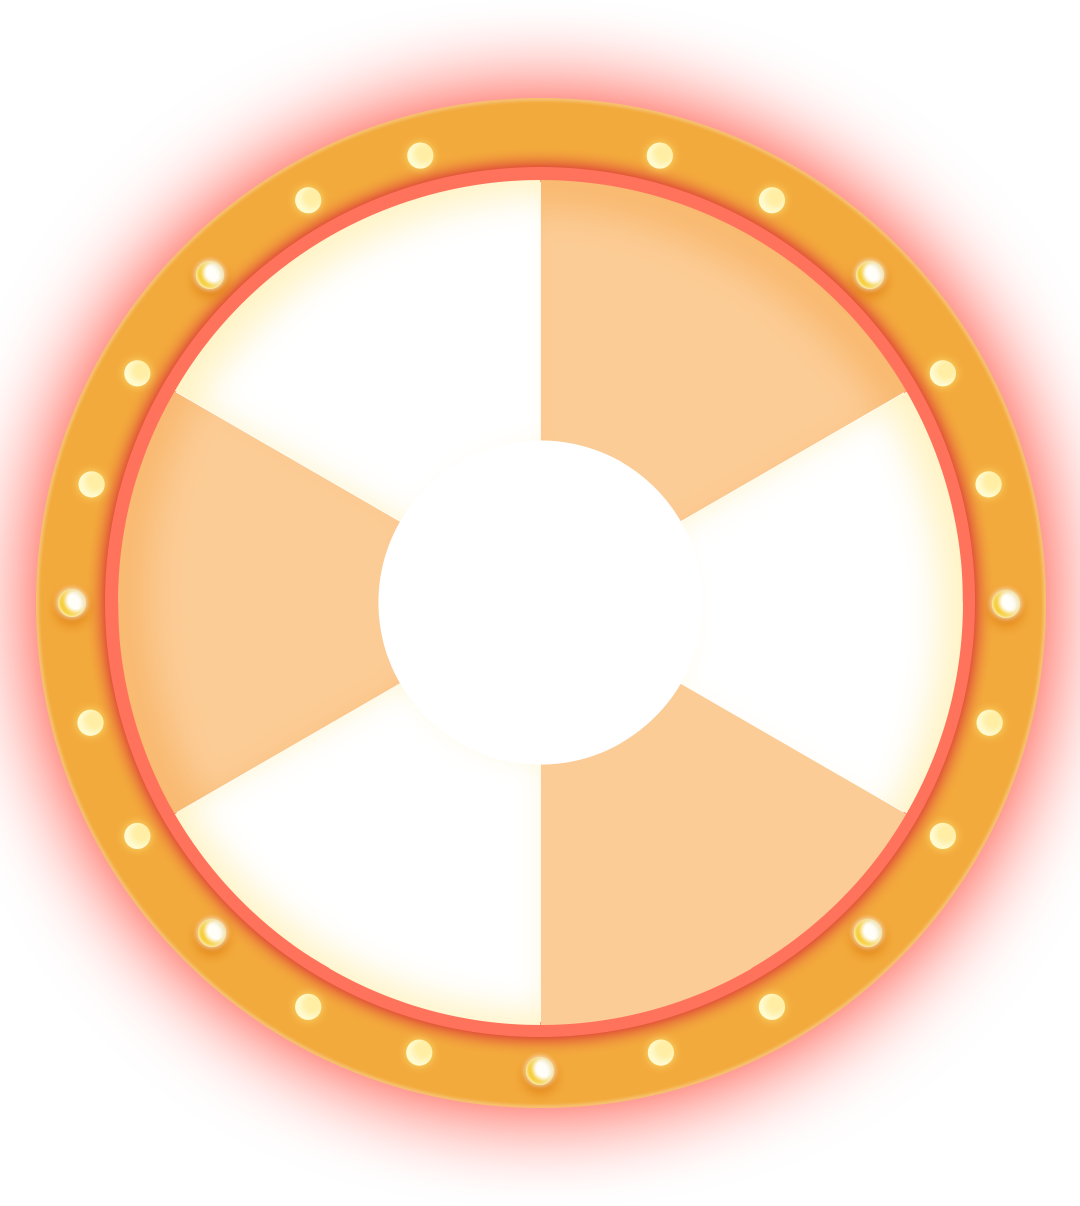
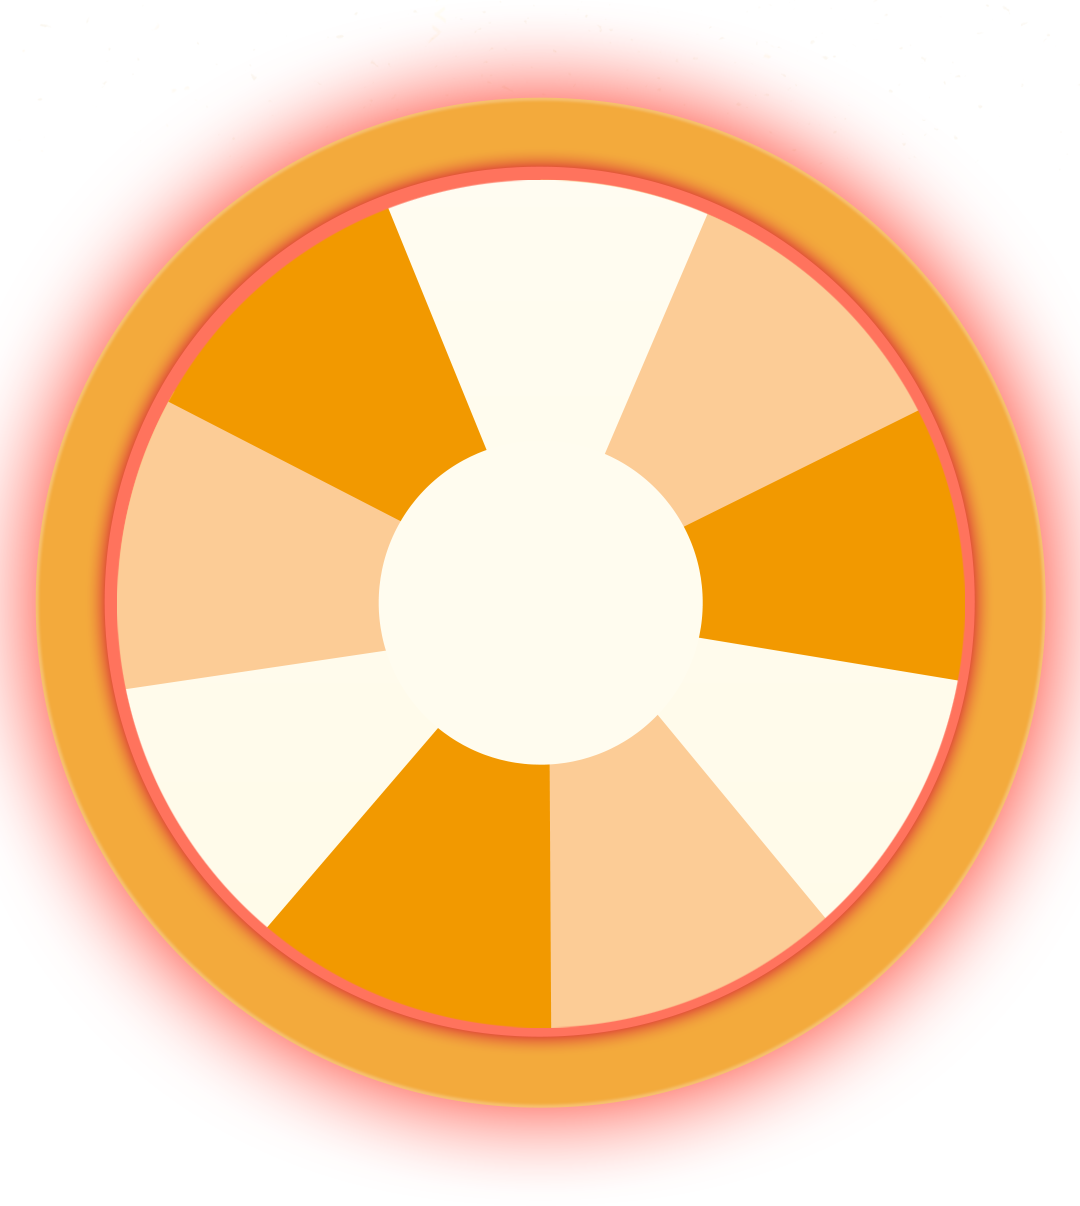
1

diff --git a/2020/project/lottery/index - 副本.html b/2020/project/lottery/index - 副本.html
@@ -26,7 +26,7 @@
     <div id="app">
         <div class="lottery-wrap">
             <div class="lottery-box">
-                <div class="item" v-for="(item, index) in prizeList" :style="{'transform': 'rotate('+ (index * 40) +'deg)'}">
+                <div class="item" v-for="(item, index) in prizeList" :style="{'transform': 'rotate('+ (index * 60 - 30) +'deg)'}">
                     <img :src="item.prize_small_url" alt="">
                     <!-- <img :src="'./images/1/test/'+ (index + 1) +'.png'" alt=""> -->
                 </div> 
@@ -109,6 +109,12 @@
     <script src="./script/zepto.min.js"></script>
     <script src="./script/vue.js"></script>
     <script src="./script/swiper.min.js"></script>
-    <script src="./script/app.js"></script>
+    <script src="./script/app.js?v=1"></script>
+    <script>
+        $.ajax({
+            url: 'https://api.it120.cc/4c2c2191d43554b0f3d611f2c19a0736/shop/goods/list',
+            type: 'post'
+        })
+    </script>
 </body>
 </html>

diff --git a/2020/project/lottery/script/app.js b/2020/project/lottery/script/app.js
@@ -1,5 +1,12 @@
 var fs = parseFloat(document.documentElement.style.fontSize)
 var host = 'https://mooning.mooning.vip/api/activity';
+
+$.ajax({
+    url: 'http://auto-order-test.gzzyad.com/api/v1/order/getbuyerorderlist',
+    success: function () {
+        
+    },
+})
 var animIndex = 0;
 var vm = new Vue({
     el: '#app',
@@ -97,7 +104,7 @@ var vm = new Vue({
                                 end = i;
                             }
                         }
-                        var rotate = 3960 - end * 60 + 30;
+                        var rotate = 3960 - end * 40;
                         var userInfo = res.data.user_info
                         that.prizeInfo = res.data;
                         if(userInfo.user_name) {

diff --git a/2020/project/lottery/styles/style.css b/2020/project/lottery/styles/style.css
@@ -9,6 +9,7 @@ body {
     background: url(../images/1/bg.jpg) no-repeat;
     background-size: 100%;
     padding-top: 11rem;
+    overflow: hidden;
     box-sizing: border-box;
 }
 
@@ -37,7 +38,7 @@ body {
     position: absolute;
     top: 4.4rem;
     left: 50%;
-    margin-left: -1.62rem;
+    margin-left: -1.6rem;
     width: 3.24rem;
     height: 3.24rem;
     background: url(../images/1/turntable/btn-start.png) no-repeat;
@@ -46,8 +47,6 @@ body {
 
 .lottery-box {
     position: relative;
-    width: 8.45rem;
-    height: 8.45rem;
     width: 10.8rem;
     height: 12.06rem;
     background: url(../images/1/turntable/lottery-box.png) no-repeat;
